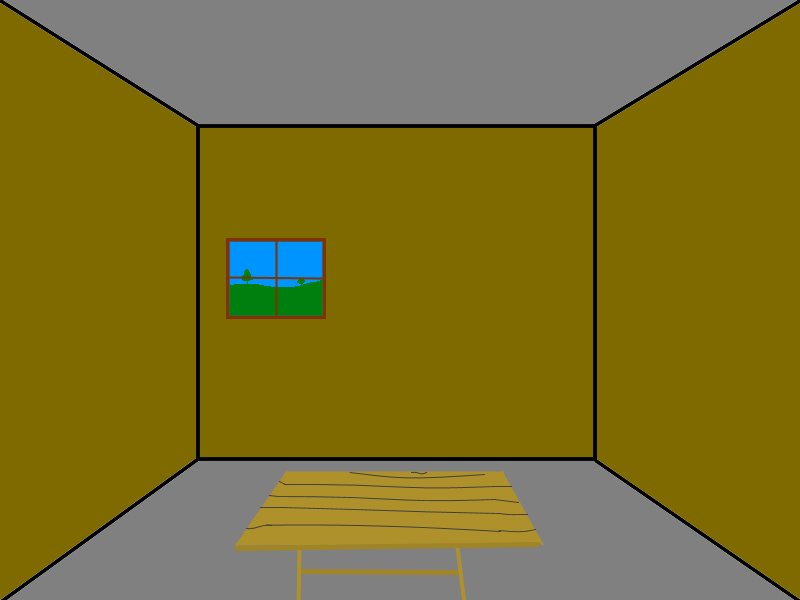
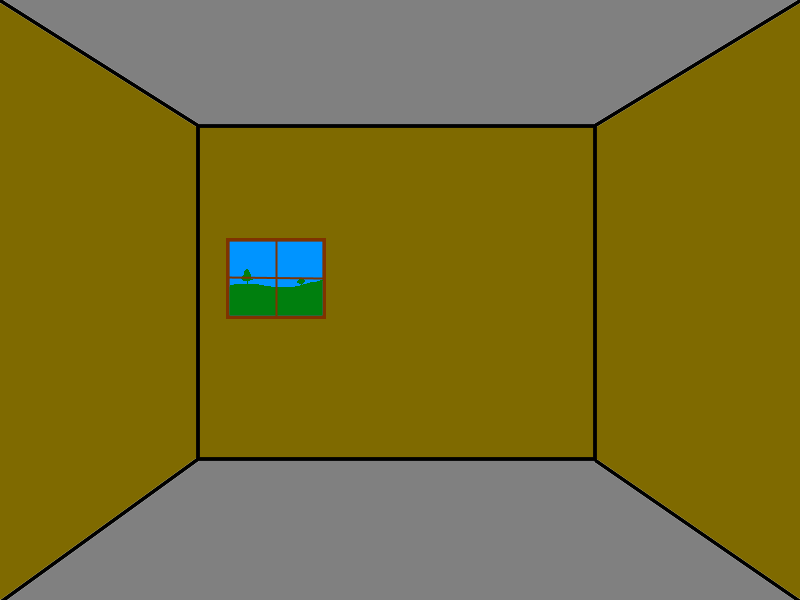
furniture is clickable for room actions

Changed region(s): [[0.2812, 0.78, 0.6875, 1.0]]

diff --git a/src/ui/componentfactory/SceneComponentFactory.kt b/src/ui/componentfactory/SceneComponentFactory.kt
@@ -1,12 +1,17 @@
 package ui.componentfactory
 
+import javafx.event.EventHandler
 import javafx.scene.Scene
-import javafx.scene.image.ImageView
 import javafx.scene.layout.GridPane
 import javafx.scene.layout.Pane
+import main.Controller
 import main.UIGlobals
 import shortstate.ShortGameScene
 import shortstate.ShortStateCharacter
+import shortstate.room.Room
+import shortstate.room.RoomActionMaker
+import ui.specialdisplayables.selectionmodal.SelectionModal
+import ui.specialdisplayables.selectionmodal.Tab
 
 class SceneComponentFactory {
 
@@ -38,15 +43,37 @@ class SceneComponentFactory {
 
     fun sceneImage(perspective: ShortStateCharacter): Pane {
         val imagePane = Pane()
-        val backgroundView = UtilityComponentFactory.imageView(scene.room.pictureText+"/inside", 0.8)
+        val backgroundView = UtilityComponentFactory.imageView(scene.room.imagePath+"/inside", 0.8)
+
+        val interactView = UtilityComponentFactory.imageView(scene.room.imagePath+"/interact", 0.8)
+        UtilityComponentFactory.applyTooltip(interactView, Room.tooltips[scene.room.type])
+        interactView.onMouseClicked = EventHandler { _ ->
+            UIGlobals.focusOn(
+                SelectionModal("Select Action",
+                    roomActionButtons(scene.room, perspective),
+                    { maker ->
+                        maker.onClick(
+                            Controller.singleton!!.shortThreadForPlayer(perspective).shortGame,
+                            perspective
+                        )
+                    })
+            )
+        }
+
+        imagePane.children.addAll(backgroundView, interactView)
         if(scene.characters!!.size > 1){
             val otherPlayer = scene.conversation!!.otherParticipant(perspective)
             val characterView = UtilityComponentFactory.imageView(otherPlayer.player.pictureString, 0.8)
             characterView.setOnMouseClicked { event -> UIGlobals.focusOn(otherPlayer) }
-            imagePane.children.addAll(backgroundView, characterView)
+            imagePane.children.addAll(characterView)
         } else {
-            imagePane.children.addAll(backgroundView)
         }
         return imagePane
+    }
+
+    private fun roomActionButtons(room: Room, perspective: ShortStateCharacter): List<Tab<RoomActionMaker>>{
+        val tab = Tab(room.name, room.getActions(perspective))
+
+        return listOf(tab)
     }
 }

diff --git a/src/ui/componentfactory/BottomPaneComponentFactory.kt b/src/ui/componentfactory/BottomPaneComponentFactory.kt
@@ -18,11 +18,7 @@ import ui.specialdisplayables.selectionmodal.Tab
 object BottomPaneComponentFactory {
 
     fun sceneBottomPane(scene: ShortGameScene, perspective: ShortStateCharacter): Pane {
-        if(scene.conversation == null){
-            return bottomPane(outOfConvoButtons(scene, perspective).plus(listOf(UtilityComponentFactory.newSceneButton(perspective))), perspective)
-        } else {
-            return bottomPane(listOf(UtilityComponentFactory.newSceneButton(perspective)), perspective)
-        }
+        return bottomPane(listOf(UtilityComponentFactory.newSceneButton(perspective)), perspective)
     }
 
     fun bottomPane(buttons: List<Button>, perspective: ShortStateCharacter): Pane {
@@ -40,37 +36,5 @@ object BottomPaneComponentFactory {
         retval.add(buttonsPane, 0,1)
 
         return retval
-    }
-
-
-    fun outOfConvoButtons(scene: ShortGameScene, perspective: ShortStateCharacter): List<Button> {
-        val localActionsButton = if(scene.room.getActions(perspective).isNotEmpty()){
-            UtilityComponentFactory.shortButton("Actions Here", EventHandler { _ ->
-                UIGlobals.focusOn(
-                    SelectionModal("Select Action",
-                        roomActionButtons(scene.room, perspective),
-                        { maker ->
-                            maker.onClick(
-                                Controller.singleton!!.shortThreadForPlayer(perspective).shortGame,
-                                perspective
-                            )
-                        })
-                )
-            })
-        } else {
-            UtilityComponentFactory.shortButton("No Actions In this Room", null)
-        }
-
-        val endTurnButton = UtilityComponentFactory.shortButton("End Turn", EventHandler { _ -> UIGlobals.focusOn(
-            EndTurnMenu()
-        )})
-
-        return listOf(localActionsButton, endTurnButton).plus(UIGlobals.activeGame().gameLogicModules.flatMap { it.bottomButtons(perspective) })
-    }
-
-    private fun roomActionButtons(room: Room, perspective: ShortStateCharacter): List<Tab<RoomActionMaker>>{
-        val tab = Tab(room.name, room.getActions(perspective))
-
-        return listOf(tab)
     }
 }

diff --git a/src/shortstate/room/Room.kt b/src/shortstate/room/Room.kt
@@ -11,30 +11,40 @@ import shortstate.room.actionmaker.DraftWritRoomActionMaker
 
 class Room {
 
-    val NAME_NAME = "NAME"
+    companion object{
+        val NAME_NAME = "NAME"
+        val TYPE_NAME = "TYPE"
+        val PICTURE_TEXT_NAME = "PICTURE"
+        val tooltips = mapOf(
+            RoomType.BEDROOM to "Sleep here",
+            RoomType.WORKROOM to "Gather reports, draft new writs, or view your lands",
+            RoomType.ETC to "",
+            RoomType.THRONEROOM to "announce your writs to enact them into law"
+        )
+    }
+
+
     val name: String
-    val TYPE_NAME = "TYPE"
     val type: RoomType
-    val PICTURE_TEXT_NAME = "PICTURE"
-    val pictureText: String
+    val imagePath: String
 
     constructor(name: String, pictureText: String, type: RoomType){
         this.name = name
         this.type = type
-        this.pictureText = pictureText
+        this.imagePath = pictureText
     }
 
     constructor(parent: ShortStateGame, saveString: Map<String, Any>){
         name = saveString[NAME_NAME] as String
         type = RoomType.valueOf(saveString[TYPE_NAME] as String)
-        pictureText = saveString[PICTURE_TEXT_NAME] as String
+        imagePath = saveString[PICTURE_TEXT_NAME] as String
     }
 
     fun saveString(): Map<String, Any>{
         return hashMapOf(
             NAME_NAME to name,
             TYPE_NAME to type.toString(),
-            PICTURE_TEXT_NAME to pictureText
+            PICTURE_TEXT_NAME to imagePath
         )
     }
 

diff --git a/src/ui/componentfactory/UtilityComponentFactory.kt b/src/ui/componentfactory/UtilityComponentFactory.kt
@@ -153,25 +153,27 @@ object UtilityComponentFactory {
 
     fun reports(perspective: ShortStateCharacter): List<Tab<Report>>{
         val reportOptions = perspective.knownReports
-        val reportTab = Tab<Report>("Reports", reportOptions)
+        val reportTab = Tab("Reports", reportOptions)
 
         return listOf(reportTab)
     }
 
     fun writs(perspective: ShortStateCharacter): List<Tab<Writ>>{
         val complete = perspective.player.writs.filter { it.complete() }
-        val completeTab = Tab<Writ>("Complete", complete)
+        val completeTab = Tab("Complete", complete)
         val incomplete = perspective.player.writs.filter { !it.complete() }
-        val incompleteTab = Tab<Writ>("Incomplete", incomplete)
+        val incompleteTab = Tab("Incomplete", incomplete)
 
         return listOf(completeTab, incompleteTab)
     }
 
-    fun applyTooltip(node: Node, text: String): Node{
-        val tooltip = Tooltip(text)
-        tooltip.font = Font(12.0)
-        tooltip.showDelay = Duration(100.0)
-        Tooltip.install(node, tooltip)
+    fun applyTooltip(node: Node, text: String?): Node{
+        if(text != null){
+            val tooltip = Tooltip(text)
+            tooltip.font = Font(12.0)
+            tooltip.showDelay = Duration(100.0)
+            Tooltip.install(node, tooltip)
+        }
 
         return node
     }
